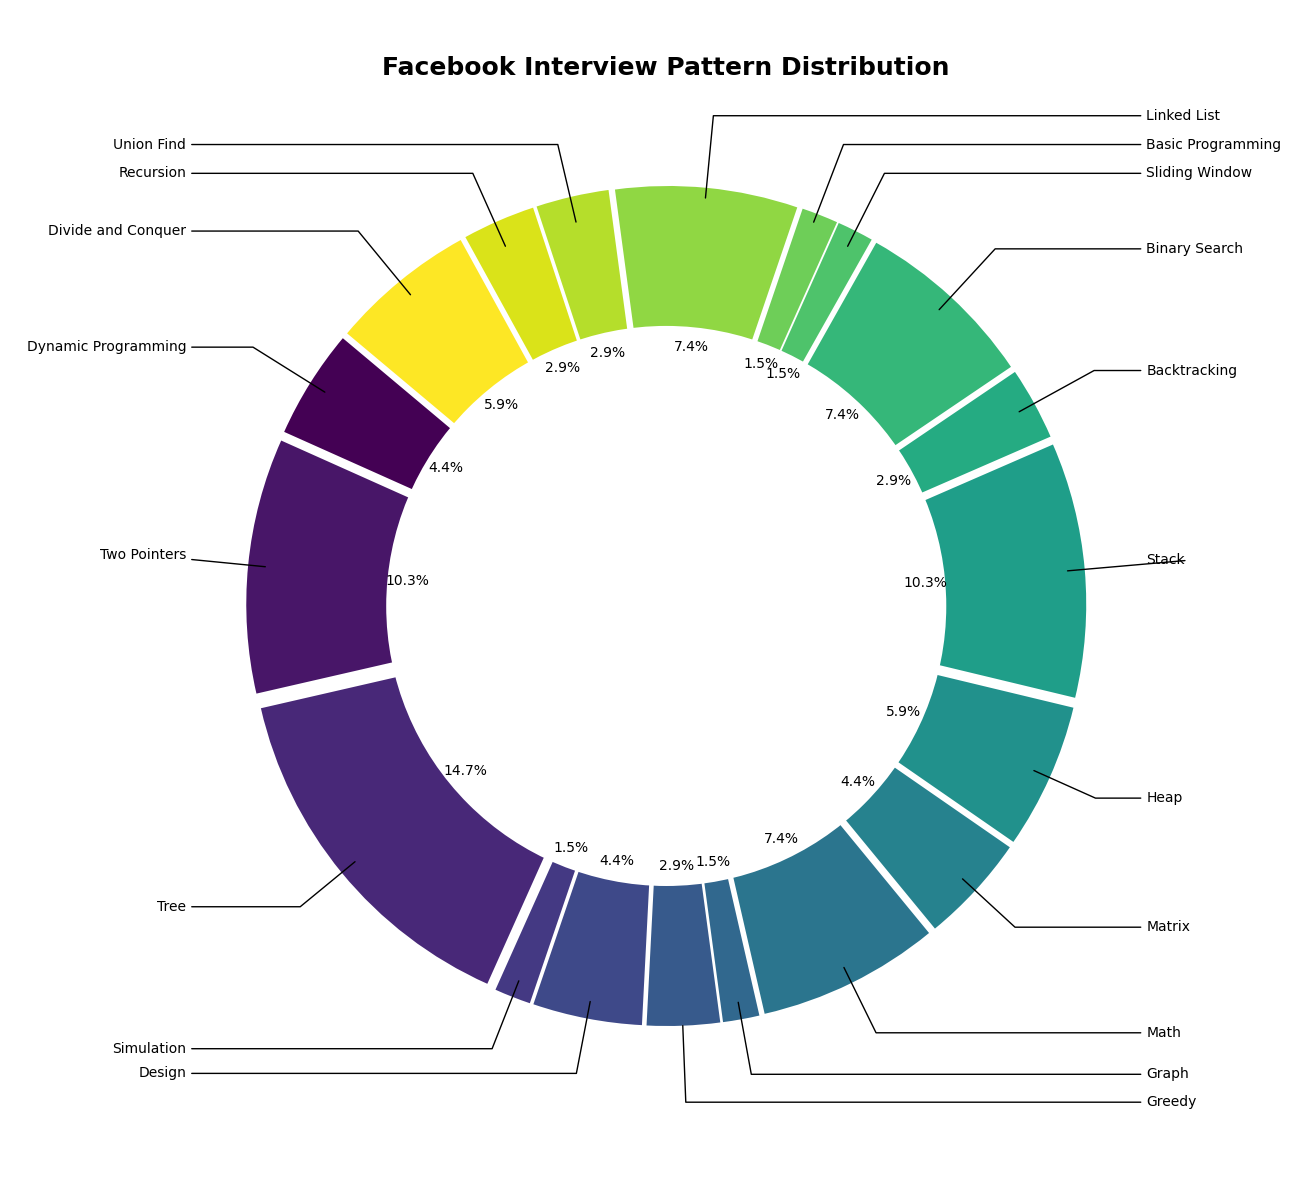
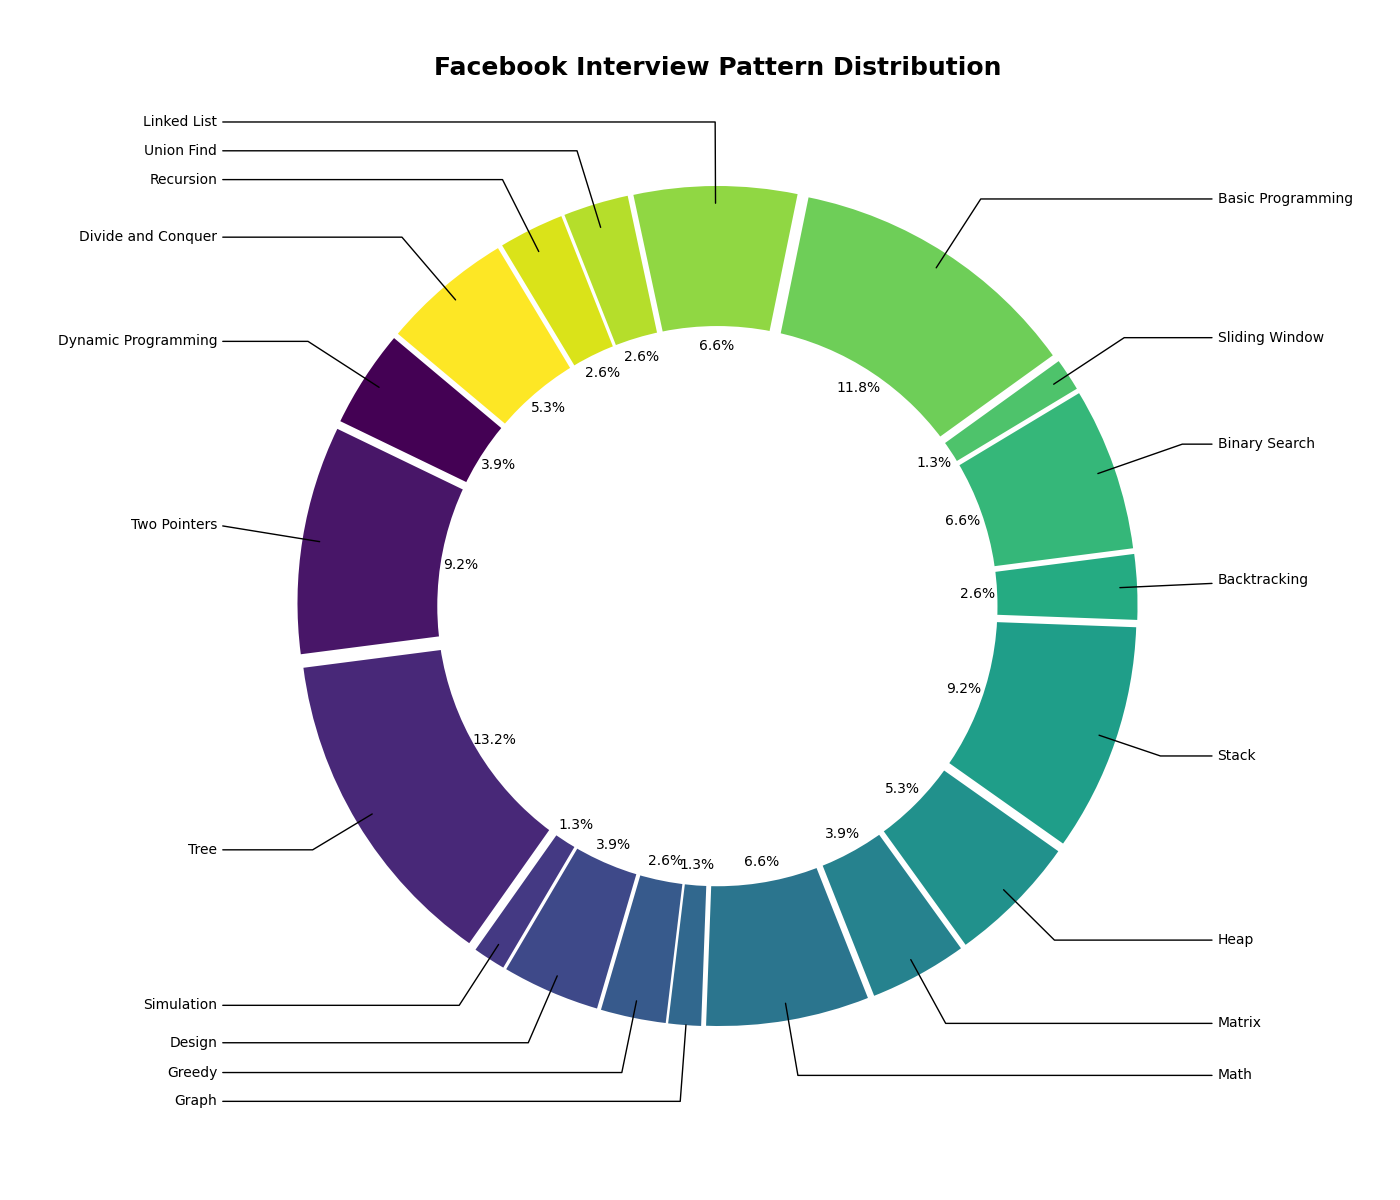
first version of script done. sends pattern data in the request and outputs the response as a yaml file. pie charts work as expected.

diff --git a/script.py b/script.py
@@ -1,6 +1,15 @@
 import pandas as pd
 import matplotlib.pyplot as plt
 import numpy as np
+import yaml as yaml
+import openai
+from dotenv import dotenv_values
+import os
+from openai import OpenAI
+
+company = "Facebook"
+excelfile = f"./excel sheets/{company}_questions.xlsx"
+df = pd.read_excel(excelfile)
 
 patterns = {
     "Dynamic Programming": 0,
@@ -29,91 +38,150 @@ patterns = {
     "Adv. Data Structure": 0,
     "Recursion": 0,
     "Divide and Conquer": 0,
-}
-
+}   
 difficulty = {
     "Easy": 0,
     "Medium": 0,
     "Hard": 0,
 }
-company = "Facebook"
 
-# Adjust this path to your actual Excel file location
-excelfile = f"./excel sheets/{company}_questions.xlsx"
-df = pd.read_excel(excelfile)
+# topics that are mutually exclusive with "basic programming" pattern
+not_basics = ["Dynamic Programming", "Depth-First Search", "Breadth-First Search", "Trie", "Simulation", "Graph", "Recursion"]
 
+# list of problem ID's for liteproblem link
 idlist = []
 
-for index, row in df.iterrows():
-    patterns_string = str(row.iloc[2])
-    difficulty_string = row.iloc[4]
-    problem_id = row.iloc[0]
+def generate_charts():
+    def plot_patterns(graph_patterns):
+        labels = list(graph_patterns.keys())
+        sizes = list(graph_patterns.values())
 
-    idlist.append(problem_id)
+        # Prepare the pie chart settings
+        colors = plt.cm.viridis(np.linspace(0, 1, len(labels)))
+        explode = [0.05] * len(labels)  # slight separation for each slice
 
-    # Increment the difficulty counts
-    difficulty[difficulty_string] += 1
+        # Create the pie chart
+        fig, ax = plt.subplots(figsize=(14, 12))  # Increase the figure size here
+        wedges, texts, autotexts = ax.pie(sizes, explode=explode, autopct='%1.1f%%', startangle=140, colors=colors)
 
-    # Increment pattern counts based on pattern string content
-    for key in patterns.keys():
-        if key == "Adv. Data Structure":
-            if "Binary Indexed Tree" in patterns_string or "Segment Tree" in patterns_string:
+        # Adding a circle at the center to turn the pie into a donut
+        centre_circle = plt.Circle((0, 0), 0.70, color='black', fc='white', linewidth=0)
+        fig.gca().add_artist(centre_circle)
+
+        # Custom label and line drawing function
+        def label_line(x, y, text):
+            angle = np.rad2deg(np.arctan2(y, x))
+            horizontalalignment = {-1: "right", 1: "left"}[int(np.sign(x))]
+            connectionstyle = f"angle,angleA=0,angleB={angle}"
+            ax.annotate(text, xy=(x, y), xytext=(1.25*np.sign(x), 1.2*y),
+                        horizontalalignment=horizontalalignment,
+                        arrowprops=dict(arrowstyle="-", connectionstyle=connectionstyle),
+                        )
+        prev_y = -99
+
+        for i, p in enumerate(wedges):
+            ang = np.deg2rad((p.theta2 - p.theta1) / 2 + p.theta1)
+            x = np.cos(ang)
+            y = np.sin(ang)
+            # adjust starting height if it's too crowded with the previous label
+            if abs(y - prev_y) <= 0.05:
+                if y < prev_y:
+                    y = prev_y - 0.06
+                else:
+                    y = prev_y + 0.06
+            prev_y = y
+            label_line(x , y, labels[i])
+
+        # Set aspect ratio to be equal
+        ax.axis('equal')
+
+        # Title and show
+        chartname = f"{company} Interview Pattern Distribution"
+        filename = f"./charts/{company}_pattern_chart.png"
+
+        plt.title(chartname, weight="bold", fontsize=18, pad=50)
+        plt.savefig(filename)
+
+    def plot_difficulty(difficulty):
+        colors = ['#34a853', '#fbbc02', '#eb4334']
+
+        fig, ax = plt.subplots(figsize=(10, 10))
+        ax.pie(difficulty.values(), labels=difficulty.keys(), autopct='%1.1f%%', startangle=90, colors=colors)
+        ax.axis('equal')  # Equal aspect ratio ensures that pie is drawn as a circle.
+
+        chartname = f"{company} Interview Question Difficulty"
+        filename = f"./charts/{company}_difficulty_chart.png"
+
+        plt.title(chartname, weight="bold", fontsize=18, pad=50)
+        plt.savefig(filename)
+
+    # sum up patterns and difficulty
+    for index, row in df.iterrows():
+        patterns_string = str(row.iloc[2])
+        difficulty_string = str(row.iloc[4])
+        problem_id = str(row.iloc[0])
+
+        idlist.append(problem_id)
+
+        # Increment the difficulty counts
+        difficulty[difficulty_string] += 1
+
+        # Check for each pattern in the string and increment if found
+        if "Easy" in difficulty_string:
+            isBasic = True
+            for pattern in not_basics:
+                if pattern in difficulty_string:
+                    isBasic = False
+            if isBasic:
+                patterns["Basic Programming"] += 1
+
+        # Increment pattern counts based on pattern string content
+        for key in patterns.keys():
+            if key == "Adv. Data Structure":
+                if "Binary Indexed Tree" in patterns_string or "Segment Tree" in patterns_string:
+                    patterns[key] += 1
+            elif key in patterns_string:
                 patterns[key] += 1
-        elif key in patterns_string:
-            patterns[key] += 1
 
-print(idlist)
+    print(idlist)
 
-# Filtering to ensure we have the right data for visualization
-graph_patterns = {k: v for k, v in patterns.items() if v > 0}
-labels = list(graph_patterns.keys())
-sizes = list(graph_patterns.values())
+    # Filtering to ensure we have the right data for visualization
+    graph_patterns = {k: v for k, v in patterns.items() if v > 0}
+    difficulty_data = {k: v for k, v in difficulty.items() if v > 0}
 
-# Prepare the pie chart settings
-colors = plt.cm.viridis(np.linspace(0, 1, len(labels)))
-explode = [0.05] * len(labels)  # slight separation for each slice
+    plot_patterns(graph_patterns)
+    plot_difficulty(difficulty_data)
 
-# Create the pie chart
-fig, ax = plt.subplots(figsize=(13, 12))  # Increase the figure size here
-wedges, texts, autotexts = ax.pie(sizes, explode=explode, autopct='%1.1f%%', startangle=140, colors=colors)
+def main():
+    generate_charts()
 
-# Adding a circle at the center to turn the pie into a donut
-centre_circle = plt.Circle((0, 0), 0.70, color='black', fc='white', linewidth=0)
-fig.gca().add_artist(centre_circle)
+    #config
+    client = OpenAI()
+    config = dotenv_values(".env")
+    client.api_key = config["OPENAI_API_KEY"]
 
-# Custom label and line drawing function
-def label_line(x, y, text):
-    angle = np.rad2deg(np.arctan2(y, x))
-    horizontalalignment = {-1: "right", 1: "left"}[int(np.sign(x))]
-    connectionstyle = f"angle,angleA=0,angleB={angle}"
-    ax.annotate(text, xy=(x, y), xytext=(1.2*np.sign(x), 1.2*y),
-                horizontalalignment=horizontalalignment,
-                arrowprops=dict(arrowstyle="-", connectionstyle=connectionstyle),
-                )
+    new_patterns = {k: v for k, v in patterns.items() if v > 0}
 
-# Apply custom labeling function
+    # roles: system, user, assistant
+    # system - sets the behavior of the assistant
+    # user - provides requests or comments for the assistant to respond to
+    # assistant - stores previous assistant responses
+    messages = [
+        {"role": "system", "content": "You need to write a technical interview guide for a specific company. The position is for software engineering and the problems are leetcode-style coding challenges with patterns like dfs/bfs, two pointers, dynamic programming, etc. user provdes the pattern distribution data and you need to write 1-3 paragraphs about the trends and difficulty level (briefly) and how to prepare by identifying common patterns and listing some leetcode problems. do not output the distribution data. output in yaml format ready to be exported. provide good examples of questions and hyperlink them in lists, pipe symbol to separate paragraphs."},
+        {"role": "user", "content": f"please write a technical interview guide for {company}. here is the pattern distrbution for the interview: {str(new_patterns)}. do not mention the problem frequency counts."}
+    ]
 
-prev_y = -99
+    completion = client.chat.completions.create(
+        model="gpt-4",
+        max_tokens=2048,
+        messages=messages
+    )
 
-for i, p in enumerate(wedges):
-    ang = np.deg2rad((p.theta2 - p.theta1) / 2 + p.theta1)
-    x = np.cos(ang)
-    y = np.sin(ang)
-    # adjust starting height if it's too crowded with the previous label
-    if abs(y - prev_y) <= 0.05:
-        if y < prev_y:
-            y = prev_y - 0.06
-        else:
-            y = prev_y + 0.06
-    prev_y = y
-    label_line(x , y, labels[i])
+    print(completion.choices[0].message.content)
 
-# Set aspect ratio to be equal
-ax.axis('equal')
+    file_path = 'interview_preparation_guide.yaml'
+    with open(file_path, 'w') as file:
+        file.write(completion.choices[0].message.content.strip())
 
-# Title and show
-chartname = f"{company} Interview Pattern Distribution"
-filename = f"./charts/{company}_pattern_chart.png"
+main()
 
-plt.title(chartname, weight="bold", fontsize=18, pad=50)
-plt.savefig(filename)
